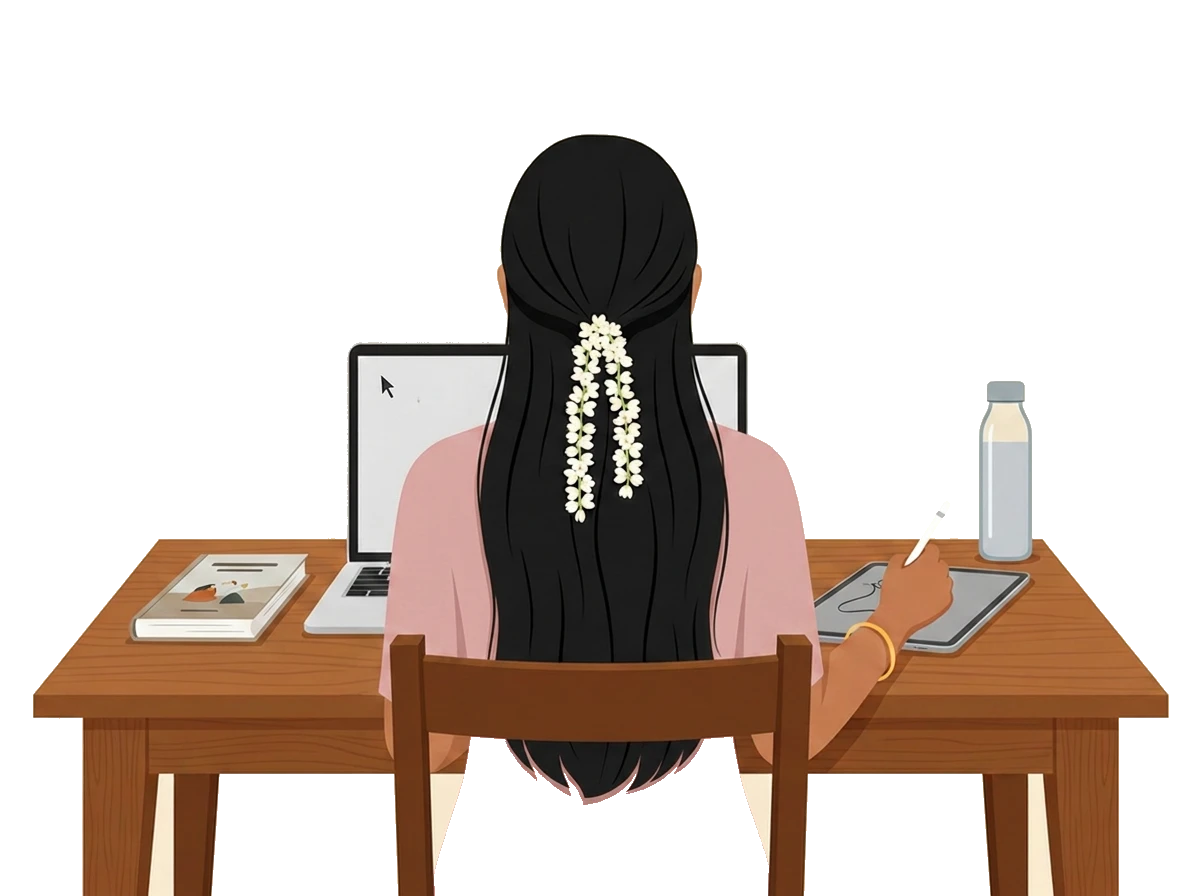
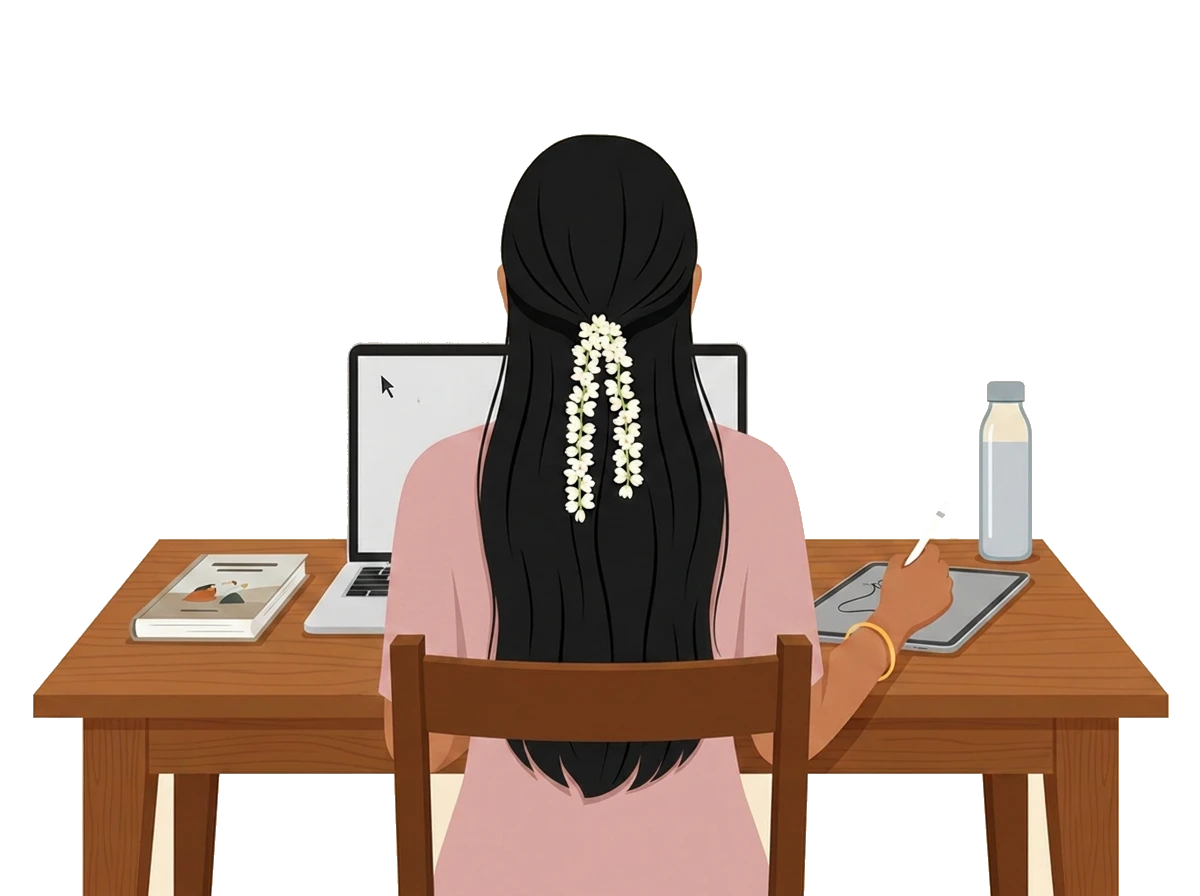
Fix her top keying to white, and make case studies open at all
Two bugs.

Her top went white below the chair because one of the flood-fill points I used
to clear the cream from under the desk landed on her garment instead of the
background — srgb(216,167,162) is the pink, not the wall — so it keyed part of
her kurta to transparent and the wall showed through. Re-cut both poses using
only points sampled and confirmed as background.

Case studies did not open. The browser mounts .work-shell / .work-head /
.work-tabs / .work-stage, but the stylesheets only ever carried the animation
modifiers for those classes — there was no base layout for them anywhere, so
it mounted as an unstyled div. It predates the landing rebuild; the rebuild
only made it obvious, because the room is fixed and painted over the top of it.
Added the base layout, above the room in the stacking order.

This is layout only. The tab bar still wants the rebuild §5 of the direction
doc asks for.

Changed region(s): [[0.3392, 0.8125, 0.6475, 1.0]]

diff --git a/src/landing/room.css b/src/landing/room.css
@@ -1223,3 +1223,102 @@
 @media (prefers-reduced-motion: reduce) {
   .rm-music-note i { animation: none; opacity: 1; }
 }
+
+/* ══════════════════════════════════════════════════════════════════════════
+   My Work
+
+   The case-study browser had animation modifiers (.work-shell.is-expanding
+   and friends) but no base layout anywhere in the stylesheets, so it mounted
+   as an unstyled div — which is why opening a case study appeared to do
+   nothing. These are the base rules it was missing. It sits above the room,
+   which is fixed, so it needs a stacking order of its own.
+
+   This is layout only; the tab bar still wants the rebuild the direction doc
+   asks for in §5.
+   ══════════════════════════════════════════════════════════════════════════ */
+
+.work-shell {
+  position: fixed;
+  inset: 0;
+  z-index: 60;
+  display: flex;
+  flex-direction: column;
+  padding: clamp(16px, 2.4vw, 32px) clamp(16px, 3vw, 44px) clamp(16px, 2.4vw, 32px);
+  background: var(--cream-50);
+  overflow: hidden;
+}
+
+.work-head {
+  display: flex;
+  align-items: center;
+  gap: var(--s3);
+  flex: none;
+  padding-bottom: var(--s3);
+}
+
+.work-back {
+  display: flex;
+  align-items: center;
+  justify-content: center;
+  width: 40px;
+  height: 40px;
+  flex: none;
+  border: 1px solid var(--cream-200);
+  border-radius: 999px;
+  background: transparent;
+  font-size: 17px;
+  line-height: 1;
+  color: var(--ink-600);
+  cursor: pointer;
+  transition: color 300ms var(--in), border-color 300ms var(--in);
+}
+
+.work-back:hover,
+.work-back:focus-visible {
+  color: var(--lotus-600);
+  border-color: var(--lotus-600);
+}
+
+.work-title {
+  margin: 0;
+  font-family: var(--font-display);
+  font-weight: 500;
+  font-size: clamp(1.5rem, 2.6vw, 2rem);
+  line-height: 1.1;
+  color: var(--ink-900);
+}
+
+/* A scrollable row, so a long list never wraps into a filing cabinet. */
+.work-tabs {
+  display: flex;
+  flex-wrap: nowrap;
+  gap: var(--s2);
+  flex: none;
+  overflow-x: auto;
+  padding-bottom: var(--s3);
+}
+
+.work-tabs .pc-pill { flex: none; }
+
+/* The work itself, on a warm surface that breathes. */
+.work-stage {
+  flex: 1;
+  min-height: 0;
+  overflow: auto;
+  border: 1px solid var(--cream-200);
+  border-radius: 24px;
+  background: var(--jasmine);
+}
+
+.work-stage > iframe {
+  display: block;
+  width: 100%;
+  height: 100%;
+  min-height: 60vh;
+  border: 0;
+}
+
+@media (max-width: 900px) {
+  .work-shell { padding: 12px 20px 20px; }
+  .work-stage { border-radius: 16px; }
+}
